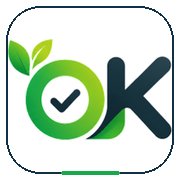
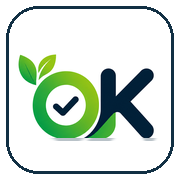
App-incrementale-v06

diff --git a/public/app.html b/public/app.html
@@ -3,114 +3,129 @@
 <head>
   <meta charset="UTF-8">
   <meta name="viewport" content="width=device-width,initial-scale=1,viewport-fit=cover">
-  <meta name="theme-color" content="#ffffff">
+  <meta name="theme-color" content="#f4f7f5">
   <meta name="apple-mobile-web-app-capable" content="yes">
   <meta name="apple-mobile-web-app-status-bar-style" content="default">
   <meta name="apple-mobile-web-app-title" content="OffertaLogica">
   <title>OffertaLogica</title>
   <link rel="manifest" href="/manifest.webmanifest">
   <link rel="icon" href="/assets/logo-offertalogica-icon.png">
-  <link rel="apple-touch-icon" sizes="180x180" href="/assets/app-icon-180.png">
+  <link rel="apple-touch-icon" sizes="180x180" href="/assets/app-icon-180.png?v=6">
   <style>
     :root{
-      --bg:#f5f7fa;--surface:#fff;--text:#123044;--muted:#5d7280;
-      --green:#19a94b;--green-dark:#068d3e;--lime:#86d51f;
-      --navy:#123044;--border:#dce5ea;--soft:#eef8f1;
-      --shadow:0 12px 32px rgba(18,48,68,.08);--radius:22px;
+      --bg:#f4f7f5;--surface:#ffffff;--surface-2:#eef5f0;--text:#123044;--muted:#647985;
+      --green:#18a84b;--green-dark:#087f3a;--lime:#84d126;--navy:#123044;--line:#dbe6df;
+      --shadow:0 18px 44px rgba(18,48,68,.10);--soft-shadow:0 8px 24px rgba(18,48,68,.07);
+      --r-xl:30px;--r-lg:24px;--r-md:18px;
     }
     *{box-sizing:border-box}
-    html{background:var(--bg);-webkit-text-size-adjust:100%}
+    html{background:var(--bg);-webkit-text-size-adjust:100%;scroll-behavior:smooth}
     body{margin:0;min-height:100dvh;background:var(--bg);color:var(--text);font-family:-apple-system,BlinkMacSystemFont,"Segoe UI",Inter,Arial,sans-serif;-webkit-font-smoothing:antialiased}
-    a,button{font:inherit;-webkit-tap-highlight-color:transparent}
+    button,a{font:inherit;-webkit-tap-highlight-color:transparent}
     button{color:inherit}
-    .app{width:min(100%,520px);min-height:100dvh;margin:auto;padding:env(safe-area-inset-top) 16px calc(92px + env(safe-area-inset-bottom))}
-    .topbar{height:72px;display:flex;align-items:center;justify-content:space-between}
-    .brand{display:flex;align-items:center;text-decoration:none}
-    .brand img{display:block;width:184px;max-width:58vw;height:auto}
-    .icon-button{width:44px;height:44px;border:1px solid var(--border);border-radius:15px;background:var(--surface);display:grid;place-items:center;box-shadow:0 5px 16px rgba(18,48,68,.06)}
+    .shell{width:min(100%,540px);min-height:100dvh;margin:auto;padding:env(safe-area-inset-top) 16px calc(108px + env(safe-area-inset-bottom))}
+    .topbar{height:74px;display:flex;align-items:center;justify-content:space-between;gap:14px}
+    .brand img{display:block;width:177px;max-width:56vw;height:auto}
+    .top-actions{display:flex;align-items:center;gap:9px}
+    .round-btn{width:44px;height:44px;border:1px solid rgba(18,48,68,.09);border-radius:15px;background:rgba(255,255,255,.82);display:grid;place-items:center;box-shadow:var(--soft-shadow);backdrop-filter:blur(16px);-webkit-backdrop-filter:blur(16px);text-decoration:none;color:var(--navy)}
     .icon{width:23px;height:23px;stroke:currentColor;stroke-width:1.9;fill:none;stroke-linecap:round;stroke-linejoin:round}
-    .hero{position:relative;isolation:isolate;overflow:hidden;padding:25px 21px 21px;border-radius:26px;background:linear-gradient(135deg,#078d3f 0%,#19a94b 58%,#78cc20 100%);color:#fff;box-shadow:0 18px 38px rgba(25,169,75,.22)}
-    .hero:before,.hero:after{content:"";position:absolute;z-index:-1;border-radius:999px;background:rgba(255,255,255,.10)}
-    .hero:before{width:210px;height:210px;right:-92px;top:-116px}
-    .hero:after{width:145px;height:145px;left:-80px;bottom:-105px}
-    .eyebrow{display:flex;align-items:center;gap:7px;font-size:13px;font-weight:800;letter-spacing:.01em;opacity:.96}
-    .eyebrow-dot{width:8px;height:8px;border-radius:50%;background:#d9ff9a;box-shadow:0 0 0 5px rgba(217,255,154,.14)}
-    .hero h1{max-width:390px;margin:12px 0 9px;font-size:clamp(31px,9vw,40px);line-height:1.02;letter-spacing:-.045em}
-    .hero p{max-width:370px;margin:0 0 20px;font-size:15px;line-height:1.45;color:rgba(255,255,255,.92)}
-    .primary{min-height:54px;width:100%;border:0;border-radius:16px;background:#fff;color:var(--navy);display:flex;align-items:center;justify-content:center;gap:9px;text-decoration:none;font-weight:900;box-shadow:0 8px 22px rgba(0,0,0,.13);transition:transform .16s ease,box-shadow .16s ease}
-    .primary:active{transform:scale(.985);box-shadow:0 5px 14px rgba(0,0,0,.11)}
-    .install{display:none;width:100%;min-height:48px;margin:13px 0 0;border:1px solid #93dbab;border-radius:15px;background:#f0fbf3;color:#087c39;font-weight:850}.install.show{display:block}
-    .section-heading{display:flex;justify-content:space-between;align-items:end;margin:24px 2px 12px}
-    .section-heading h2{margin:0;font-size:19px;letter-spacing:-.02em}.section-heading span{font-size:12px;color:var(--muted)}
-    .quick-grid{display:grid;grid-template-columns:1fr 1fr;gap:12px}
-    .quick-card{position:relative;min-height:154px;padding:17px 15px;border:1px solid var(--border);border-radius:var(--radius);background:var(--surface);color:var(--text);text-decoration:none;box-shadow:var(--shadow);transition:transform .16s ease,border-color .16s ease}
-    .quick-card:active{transform:scale(.985);border-color:#b7d9c1}
-    .quick-icon{width:49px;height:49px;margin-bottom:17px;border-radius:16px;background:var(--soft);color:var(--green-dark);display:grid;place-items:center}
-    .quick-card strong{display:block;margin-bottom:5px;font-size:16px;letter-spacing:-.015em}.quick-card small{display:block;color:var(--muted);font-size:13px;line-height:1.38}
-    .wide-card{margin-top:12px;padding:18px;border:1px solid var(--border);border-radius:var(--radius);background:var(--surface);box-shadow:var(--shadow)}
-    .wide-head{display:flex;align-items:center;justify-content:space-between;gap:12px}.wide-head strong{font-size:16px}
-    .badge{padding:6px 9px;border-radius:99px;background:#e9f9ee;color:#087c39;font-size:11px;font-weight:900}
-    .wide-card h3{margin:13px 0 5px;font-size:20px;letter-spacing:-.025em}.wide-card p{margin:0;color:var(--muted);font-size:13px;line-height:1.45}
-    .wide-link{display:flex;align-items:center;justify-content:space-between;margin-top:16px;padding-top:15px;border-top:1px solid #e7edf0;color:var(--green-dark);font-weight:900;text-decoration:none}
-    .nav{position:fixed;z-index:30;left:50%;bottom:0;transform:translateX(-50%);width:min(520px,100%);display:grid;grid-template-columns:repeat(4,1fr);padding:8px 8px calc(8px + env(safe-area-inset-bottom));border-top:1px solid var(--border);background:rgba(255,255,255,.94);backdrop-filter:blur(18px);-webkit-backdrop-filter:blur(18px)}
-    .nav a{min-height:54px;display:flex;flex-direction:column;align-items:center;justify-content:center;gap:3px;color:#607482;text-decoration:none;font-size:10px;font-weight:800;border-radius:14px}.nav a.active{color:var(--green-dark);background:#eff9f2}.nav .icon{width:22px;height:22px}
-    .splash{position:fixed;z-index:100;inset:0;display:grid;place-items:center;padding:24px;background:#fff;transition:opacity .28s ease,visibility .28s ease}
-    .splash.hidden{opacity:0;visibility:hidden;pointer-events:none}.splash-inner{text-align:center}.splash img{display:block;width:min(250px,68vw);height:auto;margin:auto;animation:logo-in .55s cubic-bezier(.2,.8,.2,1) both}.splash p{margin:16px 0 0;color:var(--muted);font-size:13px;font-weight:700;letter-spacing:.015em}
-    .update{position:fixed;z-index:60;left:50%;bottom:calc(82px + env(safe-area-inset-bottom));transform:translate(-50%,18px);width:min(calc(100% - 32px),488px);padding:12px 13px;border-radius:16px;background:var(--navy);color:#fff;display:flex;align-items:center;justify-content:space-between;gap:12px;box-shadow:0 18px 40px rgba(18,48,68,.25);opacity:0;visibility:hidden;transition:.2s ease}.update.show{opacity:1;visibility:visible;transform:translate(-50%,0)}.update span{font-size:13px;font-weight:750}.update button{border:0;border-radius:11px;background:#fff;color:var(--navy);padding:8px 10px;font-size:12px;font-weight:900}
-    @keyframes logo-in{from{opacity:0;transform:scale(.88)}to{opacity:1;transform:scale(1)}}
-    @media(min-width:700px){body{padding:24px}.app{min-height:calc(100dvh - 48px);border-radius:30px;background:#f8fafb;box-shadow:0 25px 80px rgba(18,48,68,.15)}.nav{bottom:24px;border:1px solid var(--border);border-radius:0 0 30px 30px}}
+    .view{display:none;animation:view-in .28s cubic-bezier(.2,.75,.25,1) both}.view.active{display:block}
+    .welcome{margin:5px 2px 15px}.welcome small{display:block;margin-bottom:5px;color:var(--green-dark);font-size:12px;font-weight:850;letter-spacing:.04em;text-transform:uppercase}.welcome h1{margin:0;font-size:clamp(31px,9vw,42px);line-height:1.02;letter-spacing:-.052em}.welcome p{margin:10px 0 0;max-width:410px;color:var(--muted);font-size:15px;line-height:1.48}
+    .hero{position:relative;isolation:isolate;overflow:hidden;padding:24px;border-radius:var(--r-xl);background:linear-gradient(145deg,#087f3a 0%,#18a84b 56%,#73c928 100%);color:#fff;box-shadow:0 22px 52px rgba(24,168,75,.24)}
+    .hero:before,.hero:after{content:"";position:absolute;z-index:-1;border-radius:999px;background:rgba(255,255,255,.11)}
+    .hero:before{width:230px;height:230px;right:-100px;top:-120px}.hero:after{width:170px;height:170px;left:-90px;bottom:-125px}
+    .status{display:inline-flex;align-items:center;gap:8px;padding:7px 10px;border-radius:999px;background:rgba(255,255,255,.14);font-size:12px;font-weight:850}.status-dot{width:8px;height:8px;border-radius:50%;background:#dfff9f;box-shadow:0 0 0 5px rgba(223,255,159,.14)}
+    .hero h2{margin:18px 0 8px;font-size:clamp(28px,8vw,38px);line-height:1.04;letter-spacing:-.045em}.hero p{margin:0 0 21px;max-width:390px;color:rgba(255,255,255,.91);font-size:14px;line-height:1.48}
+    .cta{min-height:56px;width:100%;border:0;border-radius:18px;background:#fff;color:var(--navy);display:flex;align-items:center;justify-content:center;gap:10px;text-decoration:none;font-weight:900;box-shadow:0 10px 24px rgba(0,0,0,.13);transition:transform .16s ease}.cta:active{transform:scale(.982)}
+    .install{display:none;width:100%;min-height:50px;margin:13px 0 0;border:1px solid #a8dcb8;border-radius:17px;background:#eefaf1;color:#087c39;font-weight:850}.install.show{display:block}
+    .section-title{display:flex;align-items:end;justify-content:space-between;margin:25px 2px 12px}.section-title h2{margin:0;font-size:20px;letter-spacing:-.025em}.section-title span{color:var(--muted);font-size:12px}
+    .action-grid{display:grid;grid-template-columns:1fr 1fr;gap:12px}
+    .action{min-height:166px;padding:17px;border:1px solid var(--line);border-radius:var(--r-lg);background:var(--surface);box-shadow:var(--soft-shadow);text-decoration:none;color:var(--text);transition:transform .16s ease,border-color .16s ease}.action:active{transform:scale(.982);border-color:#b8d9c1}
+    .action-icon{width:52px;height:52px;margin-bottom:20px;border-radius:18px;background:var(--surface-2);color:var(--green-dark);display:grid;place-items:center}.action strong{display:block;margin-bottom:5px;font-size:16px;letter-spacing:-.02em}.action small{display:block;color:var(--muted);font-size:13px;line-height:1.4}
+    .insight{margin-top:12px;padding:19px;border:1px solid var(--line);border-radius:var(--r-lg);background:linear-gradient(180deg,#fff,#fbfdfb);box-shadow:var(--soft-shadow)}
+    .insight-head{display:flex;align-items:center;justify-content:space-between;gap:12px}.insight-head strong{font-size:16px}.pill{padding:6px 9px;border-radius:999px;background:#e8f8ed;color:#087c39;font-size:11px;font-weight:900}.insight h3{margin:15px 0 6px;font-size:22px;letter-spacing:-.032em}.insight p{margin:0;color:var(--muted);font-size:13px;line-height:1.48}.text-link{display:flex;align-items:center;justify-content:space-between;margin-top:17px;padding-top:15px;border-top:1px solid #e7eeea;color:var(--green-dark);font-weight:900;text-decoration:none}
+    .page-head{padding:7px 2px 16px}.page-head .kicker{color:var(--green-dark);font-size:12px;font-weight:850;text-transform:uppercase;letter-spacing:.04em}.page-head h1{margin:6px 0 7px;font-size:34px;line-height:1.05;letter-spacing:-.045em}.page-head p{margin:0;color:var(--muted);font-size:14px;line-height:1.5}
+    .feature-card{padding:22px;border:1px solid var(--line);border-radius:var(--r-xl);background:var(--surface);box-shadow:var(--shadow)}
+    .feature-symbol{width:68px;height:68px;border-radius:23px;background:linear-gradient(145deg,#e6f7eb,#f5fbf6);color:var(--green-dark);display:grid;place-items:center}.feature-symbol .icon{width:31px;height:31px}
+    .feature-card h2{margin:21px 0 8px;font-size:25px;letter-spacing:-.035em}.feature-card p{margin:0 0 20px;color:var(--muted);font-size:14px;line-height:1.52}
+    .secondary{min-height:54px;width:100%;border:1px solid #b8d7c1;border-radius:17px;background:#f5fbf7;color:var(--green-dark);display:flex;align-items:center;justify-content:center;gap:9px;text-decoration:none;font-weight:900}.secondary+.secondary{margin-top:10px}
+    .list{display:grid;gap:11px;margin-top:14px}.list-item{display:flex;align-items:center;gap:13px;padding:15px;border:1px solid var(--line);border-radius:20px;background:var(--surface);text-decoration:none;color:var(--text);box-shadow:var(--soft-shadow)}.list-icon{width:44px;height:44px;flex:0 0 auto;border-radius:15px;background:var(--surface-2);color:var(--green-dark);display:grid;place-items:center}.list-copy{min-width:0;flex:1}.list-copy strong{display:block;font-size:15px}.list-copy small{display:block;margin-top:3px;color:var(--muted);font-size:12px;line-height:1.35}.chev{color:#7b8e98}
+    .nav-wrap{position:fixed;z-index:40;left:50%;bottom:0;transform:translateX(-50%);width:min(540px,100%);padding:8px 12px calc(8px + env(safe-area-inset-bottom));pointer-events:none}
+    .nav{display:grid;grid-template-columns:repeat(4,1fr);padding:7px;border:1px solid rgba(18,48,68,.10);border-radius:25px;background:rgba(255,255,255,.82);box-shadow:0 16px 42px rgba(18,48,68,.16);backdrop-filter:blur(24px) saturate(160%);-webkit-backdrop-filter:blur(24px) saturate(160%);pointer-events:auto}
+    .nav button{min-height:59px;border:0;border-radius:18px;background:transparent;color:#6a7e89;display:flex;flex-direction:column;align-items:center;justify-content:center;gap:3px;font-size:10px;font-weight:850}.nav button.active{background:#ebf7ef;color:var(--green-dark)}.nav .icon{width:22px;height:22px}
+    .splash{position:fixed;z-index:100;inset:0;display:grid;place-items:center;padding:24px;background:#fff;transition:opacity .25s ease,visibility .25s ease}.splash.hidden{opacity:0;visibility:hidden;pointer-events:none}.splash-inner{text-align:center}.splash-mark{width:min(164px,42vw);aspect-ratio:1;margin:auto;border:2px solid #183b59;border-radius:34px;background:#fff;display:grid;place-items:center;box-shadow:0 18px 50px rgba(18,48,68,.12);animation:mark-in .55s cubic-bezier(.2,.8,.2,1) both}.splash-mark img{display:block;width:86%;height:auto}.splash p{margin:19px 0 0;color:var(--muted);font-size:13px;font-weight:750}
+    .app-browser{position:fixed;z-index:90;inset:0;background:#fff;display:none;flex-direction:column;padding-top:env(safe-area-inset-top)}
+    .app-browser.open{display:flex}
+    .app-browser-bar{height:58px;flex:0 0 auto;display:flex;align-items:center;gap:10px;padding:7px 12px;border-bottom:1px solid var(--line);background:rgba(255,255,255,.94);backdrop-filter:blur(18px);-webkit-backdrop-filter:blur(18px)}
+    .app-browser-back{width:44px;height:44px;flex:0 0 auto;border:0;border-radius:15px;background:var(--surface-2);color:var(--navy);display:grid;place-items:center}
+    .app-browser-title{min-width:0;flex:1}.app-browser-title strong{display:block;font-size:14px}.app-browser-title small{display:block;margin-top:2px;color:var(--muted);font-size:11px;white-space:nowrap;overflow:hidden;text-overflow:ellipsis}
+    .app-browser iframe{width:100%;min-height:0;flex:1;border:0;background:#fff}
+    body.app-browser-open{overflow:hidden}
+    .update{position:fixed;z-index:70;left:50%;bottom:calc(101px + env(safe-area-inset-bottom));transform:translate(-50%,18px);width:min(calc(100% - 32px),508px);padding:12px 13px;border-radius:17px;background:var(--navy);color:#fff;display:flex;align-items:center;justify-content:space-between;gap:12px;box-shadow:0 18px 40px rgba(18,48,68,.25);opacity:0;visibility:hidden;transition:.2s ease}.update.show{opacity:1;visibility:visible;transform:translate(-50%,0)}.update span{font-size:13px;font-weight:750}.update button{border:0;border-radius:11px;background:#fff;color:var(--navy);padding:8px 10px;font-size:12px;font-weight:900}
+    @keyframes mark-in{from{opacity:0;transform:scale(.86) rotate(-2deg)}to{opacity:1;transform:scale(1) rotate(0)}}@keyframes view-in{from{opacity:0;transform:translateY(8px)}to{opacity:1;transform:none}}
+    @media(min-width:700px){body{padding:24px}.shell{min-height:calc(100dvh - 48px);border-radius:34px;background:#f8faf8;box-shadow:0 28px 90px rgba(18,48,68,.14)}.nav-wrap{bottom:24px}.nav{border-radius:26px}}
     @media(prefers-reduced-motion:reduce){*,*:before,*:after{animation-duration:.01ms!important;transition-duration:.01ms!important;scroll-behavior:auto!important}}
   </style>
 </head>
 <body>
-  <div id="splash" class="splash" aria-hidden="true"><div class="splash-inner"><img src="/assets/logo-offertalogica-header.png" alt=""><p>Confronta · Scegli · Risparmia</p></div></div>
+  <div id="splash" class="splash" aria-hidden="true"><div class="splash-inner"><div class="splash-mark"><img src="/assets/logo-offertalogica-icon.png" alt=""></div><p>Confronta · Scegli · Risparmia</p></div></div>
 
-  <main class="app">
+  <main class="shell">
     <header class="topbar">
-      <a class="brand" href="/app.html" aria-label="OffertaLogica"><img src="/assets/logo-offertalogica-header.png" alt="OffertaLogica"></a>
-      <a class="icon-button" href="/come-funziona.html" aria-label="Aiuto">
-        <svg class="icon" viewBox="0 0 24 24" aria-hidden="true"><circle cx="12" cy="12" r="9"/><path d="M9.8 9a2.35 2.35 0 1 1 3.6 2c-.9.6-1.4 1.05-1.4 2.2"/><path d="M12 17h.01"/></svg>
-      </a>
+      <a class="brand" href="#home" data-tab-link="home" aria-label="OffertaLogica"><img src="/assets/logo-offertalogica-header.png" alt="OffertaLogica"></a>
+      <div class="top-actions"><a class="round-btn" href="/come-funziona.html" aria-label="Aiuto"><svg class="icon" viewBox="0 0 24 24" aria-hidden="true"><circle cx="12" cy="12" r="9"/><path d="M9.8 9a2.35 2.35 0 1 1 3.6 2c-.9.6-1.4 1.05-1.4 2.2"/><path d="M12 17h.01"/></svg></a></div>
     </header>
 
-    <section class="hero">
-      <div class="eyebrow"><span class="eyebrow-dot"></span><span>Offerte luce e gas aggiornate</span></div>
-      <h1>Quanto puoi risparmiare oggi?</h1>
-      <p>Confronta le offerte disponibili oppure carica una bolletta per un risultato basato sui tuoi consumi.</p>
-      <a class="primary" href="/?entry=app#main-content">
-        <span>SCOPRI IL RISPARMIO</span>
-        <svg class="icon" viewBox="0 0 24 24" aria-hidden="true"><path d="M5 12h14"/><path d="m14 7 5 5-5 5"/></svg>
-      </a>
+    <section id="view-home" class="view active" data-view="home">
+      <div class="welcome"><small id="greeting">Buongiorno</small><h1>La tua energia, più semplice.</h1><p>Confronta le offerte oppure analizza una bolletta partendo da un percorso chiaro.</p></div>
+      <section class="hero">
+        <div class="status"><span class="status-dot"></span><span>Catalogo OffertaLogica aggiornato</span></div>
+        <h2>Scopri quanto puoi risparmiare</h2>
+        <p>Inizia dai consumi medi oppure inserisci i tuoi dati per ottenere un confronto più preciso.</p>
+        <a class="cta" href="/?entry=app#main-content" data-app-url="/?entry=app#main-content" data-app-title="Confronta le offerte"><span>INIZIA IL CONFRONTO</span><svg class="icon" viewBox="0 0 24 24" aria-hidden="true"><path d="M5 12h14"/><path d="m14 7 5 5-5 5"/></svg></a>
+      </section>
+      <button id="installApp" class="install" type="button">Installa OffertaLogica sul telefono</button>
+      <div class="section-title"><h2>Azioni rapide</h2><span>Scegli come iniziare</span></div>
+      <section class="action-grid" aria-label="Azioni principali">
+        <button class="action" type="button" data-open-tab="bill"><div class="action-icon"><svg class="icon" viewBox="0 0 24 24" aria-hidden="true"><path d="M14 2H7a2 2 0 0 0-2 2v16a2 2 0 0 0 2 2h10a2 2 0 0 0 2-2V7z"/><path d="M14 2v5h5"/><path d="M9 13h6M9 17h6"/></svg></div><strong>Analizza bolletta</strong><small>Carica il PDF e lascia che l’IA compili il confronto.</small></button>
+        <button class="action" type="button" data-open-tab="offers"><div class="action-icon"><svg class="icon" viewBox="0 0 24 24" aria-hidden="true"><circle cx="11" cy="11" r="7"/><path d="m20 20-4-4"/><path d="M11 8v6M8 11h6"/></svg></div><strong>Esplora offerte</strong><small>Consulta luce, gas e dual disponibili oggi.</small></button>
+      </section>
+      <section class="insight"><div class="insight-head"><strong>Confronto trasparente</strong><span class="pill">Dati reali</span></div><h3>Niente risparmi inventati</h3><p>L’app usa il catalogo e le funzioni reali di OffertaLogica. Le aree personali saranno attivate solo quando collegate a dati effettivi.</p><a class="text-link" href="/come-funziona.html" data-app-url="/come-funziona.html" data-app-title="Come funziona"><span>Come funziona</span><svg class="icon" viewBox="0 0 24 24" aria-hidden="true"><path d="m9 18 6-6-6-6"/></svg></a></section>
     </section>
 
-    <button id="installApp" class="install" type="button">Installa OffertaLogica sul telefono</button>
-
-    <div class="section-heading"><h2>Inizia da qui</h2><span>Due percorsi rapidi</span></div>
-    <section class="quick-grid" aria-label="Azioni principali">
-      <a class="quick-card" href="/#pdf-upload-panel">
-        <div class="quick-icon"><svg class="icon" viewBox="0 0 24 24" aria-hidden="true"><path d="M14 2H7a2 2 0 0 0-2 2v16a2 2 0 0 0 2 2h10a2 2 0 0 0 2-2V7z"/><path d="M14 2v5h5"/><path d="M9 13h6M9 17h6"/></svg></div>
-        <strong>Carica bolletta</strong><small>Analisi IA e compilazione automatica del confronto.</small>
-      </a>
-      <a class="quick-card" href="/?entry=app#main-content">
-        <div class="quick-icon"><svg class="icon" viewBox="0 0 24 24" aria-hidden="true"><circle cx="11" cy="11" r="7"/><path d="m20 20-4-4"/><path d="M11 8v6M8 11h6"/></svg></div>
-        <strong>Nuovo confronto</strong><small>Parti dai consumi oppure usa i valori medi.</small>
-      </a>
+    <section id="view-bill" class="view" data-view="bill">
+      <div class="page-head"><div class="kicker">Scanner IA</div><h1>Parti dalla bolletta</h1><p>Carica un PDF già presente sul telefono. La fotocamera diretta verrà attivata solo dopo il test tecnico dedicato.</p></div>
+      <section class="feature-card"><div class="feature-symbol"><svg class="icon" viewBox="0 0 24 24" aria-hidden="true"><path d="M14 2H7a2 2 0 0 0-2 2v16a2 2 0 0 0 2 2h10a2 2 0 0 0 2-2V7z"/><path d="M14 2v5h5"/><path d="M9 13h6M9 17h6"/></svg></div><h2>Analisi automatica</h2><p>Il lettore esistente cercherà consumo annuo, prezzo materia e quota fissa, quindi compilerà il modulo di confronto.</p><a class="cta" href="/#pdf-upload-panel" data-app-url="/#pdf-upload-panel" data-app-title="Analizza la bolletta">SCEGLI IL PDF</a><a class="secondary" href="/?entry=app#main-content" data-app-url="/?entry=app#main-content" data-app-title="Inserisci i dati">Inserisci i dati manualmente</a></section>
+      <div class="section-title"><h2>Cosa succede dopo</h2><span>Flusso attuale</span></div>
+      <div class="list"><div class="list-item"><div class="list-icon">1</div><div class="list-copy"><strong>Caricamento</strong><small>Selezioni il documento dal telefono.</small></div></div><div class="list-item"><div class="list-icon">2</div><div class="list-copy"><strong>Lettura IA</strong><small>Il sistema estrae i dati essenziali.</small></div></div><div class="list-item"><div class="list-icon">3</div><div class="list-copy"><strong>Confronto</strong><small>Verifichi i dati e confronti le offerte.</small></div></div></div>
     </section>
 
-    <section class="wide-card">
-      <div class="wide-head"><strong>Offerte disponibili</strong><span class="badge">Aggiornate</span></div>
-      <h3>Luce, gas e dual</h3>
-      <p>Consulta il catalogo reale di OffertaLogica senza dati dimostrativi o risparmi inventati.</p>
-      <a class="wide-link" href="/offerte-luce-gas-aggiornate.html"><span>Vedi le offerte</span><svg class="icon" viewBox="0 0 24 24" aria-hidden="true"><path d="m9 18 6-6-6-6"/></svg></a>
+    <section id="view-offers" class="view" data-view="offers">
+      <div class="page-head"><div class="kicker">Confronta</div><h1>Trova il percorso giusto</h1><p>Puoi partire dai consumi oppure consultare direttamente il catalogo aggiornato.</p></div>
+      <section class="feature-card"><div class="feature-symbol"><svg class="icon" viewBox="0 0 24 24" aria-hidden="true"><path d="M4 19V9M10 19V5M16 19v-8M22 19H2"/></svg></div><h2>Confronto personalizzato</h2><p>Inserisci luce, gas o dual. Se non conosci i consumi, usa il percorso rapido già disponibile nel comparatore.</p><a class="cta" href="/?entry=app#main-content" data-app-url="/?entry=app#main-content" data-app-title="Confronta le offerte">NUOVO CONFRONTO</a><a class="secondary" href="/offerte-luce-gas-aggiornate.html" data-app-url="/offerte-luce-gas-aggiornate.html" data-app-title="Offerte aggiornate">Vedi tutte le offerte</a></section>
+      <div class="list"><a class="list-item" href="/offerte-luce-gas-aggiornate.html" data-app-url="/offerte-luce-gas-aggiornate.html" data-app-title="Offerte aggiornate"><div class="list-icon"><svg class="icon" viewBox="0 0 24 24" aria-hidden="true"><path d="M13 2 4 14h7l-1 8 9-12h-7z"/></svg></div><div class="list-copy"><strong>Offerte luce</strong><small>Consulta il catalogo energia elettrica.</small></div><svg class="icon chev" viewBox="0 0 24 24"><path d="m9 18 6-6-6-6"/></svg></a><a class="list-item" href="/offerte-luce-gas-aggiornate.html" data-app-url="/offerte-luce-gas-aggiornate.html" data-app-title="Offerte aggiornate"><div class="list-icon"><svg class="icon" viewBox="0 0 24 24" aria-hidden="true"><path d="M12 22c4 0 7-3 7-7 0-5-4-7-5-12-3 2-8 6-8 12 0 4 2 7 6 7z"/><path d="M10 18c0-2 1-3 3-5 1 2 2 3 2 5a2.5 2.5 0 0 1-5 0z"/></svg></div><div class="list-copy"><strong>Offerte gas</strong><small>Consulta il catalogo gas naturale.</small></div><svg class="icon chev" viewBox="0 0 24 24"><path d="m9 18 6-6-6-6"/></svg></a></div>
+    </section>
+
+    <section id="view-more" class="view" data-view="more">
+      <div class="page-head"><div class="kicker">OffertaLogica</div><h1>Informazioni e assistenza</h1><p>Accesso rapido alle pagine reali già presenti nel progetto.</p></div>
+      <div class="list"><a class="list-item" href="/come-funziona.html" data-app-url="/come-funziona.html" data-app-title="Come funziona"><div class="list-icon"><svg class="icon" viewBox="0 0 24 24"><circle cx="12" cy="12" r="9"/><path d="M9.8 9a2.35 2.35 0 1 1 3.6 2c-.9.6-1.4 1.05-1.4 2.2"/><path d="M12 17h.01"/></svg></div><div class="list-copy"><strong>Come funziona</strong><small>Scopri il percorso di confronto.</small></div><svg class="icon chev" viewBox="0 0 24 24"><path d="m9 18 6-6-6-6"/></svg></a><a class="list-item" href="/termini-condizioni.html" data-app-url="/termini-condizioni.html" data-app-title="Termini e condizioni"><div class="list-icon"><svg class="icon" viewBox="0 0 24 24"><path d="M14 2H7a2 2 0 0 0-2 2v16a2 2 0 0 0 2 2h10a2 2 0 0 0 2-2V7z"/><path d="M14 2v5h5"/><path d="M9 13h6M9 17h6"/></svg></div><div class="list-copy"><strong>Termini e condizioni</strong><small>Informazioni legali del servizio.</small></div><svg class="icon chev" viewBox="0 0 24 24"><path d="m9 18 6-6-6-6"/></svg></a><a class="list-item" href="/"><div class="list-icon"><svg class="icon" viewBox="0 0 24 24"><path d="M3 12h18M12 3a15 15 0 0 1 0 18M12 3a15 15 0 0 0 0 18"/></svg></div><div class="list-copy"><strong>Apri il sito completo</strong><small>Accedi a tutte le sezioni di OffertaLogica.</small></div><svg class="icon chev" viewBox="0 0 24 24"><path d="m9 18 6-6-6-6"/></svg></a></div>
     </section>
   </main>
 
-  <nav class="nav" aria-label="Navigazione app">
-    <a class="active" href="/app.html" aria-current="page"><svg class="icon" viewBox="0 0 24 24" aria-hidden="true"><path d="m3 11 9-8 9 8"/><path d="M5 10v10h14V10"/><path d="M9 20v-6h6v6"/></svg><span>Home</span></a>
-    <a href="/#pdf-upload-panel"><svg class="icon" viewBox="0 0 24 24" aria-hidden="true"><path d="M14 2H7a2 2 0 0 0-2 2v16a2 2 0 0 0 2 2h10a2 2 0 0 0 2-2V7z"/><path d="M14 2v5h5"/><path d="M9 13h6M9 17h6"/></svg><span>Bolletta</span></a>
-    <a href="/?entry=app#main-content"><svg class="icon" viewBox="0 0 24 24" aria-hidden="true"><circle cx="11" cy="11" r="7"/><path d="m20 20-4-4"/></svg><span>Confronta</span></a>
-    <a href="/come-funziona.html"><svg class="icon" viewBox="0 0 24 24" aria-hidden="true"><circle cx="12" cy="12" r="9"/><path d="M9.8 9a2.35 2.35 0 1 1 3.6 2c-.9.6-1.4 1.05-1.4 2.2"/><path d="M12 17h.01"/></svg><span>Aiuto</span></a>
-  </nav>
+  <section id="appBrowser" class="app-browser" aria-hidden="true">
+    <div class="app-browser-bar">
+      <button id="appBrowserBack" class="app-browser-back" type="button" aria-label="Torna all’app"><svg class="icon" viewBox="0 0 24 24" aria-hidden="true"><path d="m15 18-6-6 6-6"/></svg></button>
+      <div class="app-browser-title"><strong id="appBrowserTitle">OffertaLogica</strong><small>Area operativa</small></div>
+    </div>
+    <iframe id="appBrowserFrame" title="OffertaLogica" src="about:blank"></iframe>
+  </section>
+
+  <div class="nav-wrap"><nav class="nav" aria-label="Navigazione app">
+    <button class="active" type="button" data-tab="home" aria-current="page"><svg class="icon" viewBox="0 0 24 24"><path d="m3 11 9-8 9 8"/><path d="M5 10v10h14V10"/><path d="M9 20v-6h6v6"/></svg><span>Home</span></button>
+    <button type="button" data-tab="bill"><svg class="icon" viewBox="0 0 24 24"><path d="M14 2H7a2 2 0 0 0-2 2v16a2 2 0 0 0 2 2h10a2 2 0 0 0 2-2V7z"/><path d="M14 2v5h5"/><path d="M9 13h6M9 17h6"/></svg><span>Bolletta</span></button>
+    <button type="button" data-tab="offers"><svg class="icon" viewBox="0 0 24 24"><circle cx="11" cy="11" r="7"/><path d="m20 20-4-4"/></svg><span>Confronta</span></button>
+    <button type="button" data-tab="more"><svg class="icon" viewBox="0 0 24 24"><circle cx="5" cy="12" r="1" fill="currentColor" stroke="none"/><circle cx="12" cy="12" r="1" fill="currentColor" stroke="none"/><circle cx="19" cy="12" r="1" fill="currentColor" stroke="none"/></svg><span>Altro</span></button>
+  </nav></div>
 
   <div id="updateNotice" class="update" role="status" aria-live="polite"><span>È disponibile una nuova versione.</span><button id="applyUpdate" type="button">AGGIORNA</button></div>
 
@@ -118,32 +133,47 @@
     (()=>{
       const splash=document.getElementById('splash');
       const hideSplash=()=>splash.classList.add('hidden');
-      addEventListener('load',()=>setTimeout(hideSplash,650),{once:true});
-      setTimeout(hideSplash,1600);
+      addEventListener('load',()=>setTimeout(hideSplash,560),{once:true});setTimeout(hideSplash,1500);
 
-      let deferredPrompt;
-      const install=document.getElementById('installApp');
+      const hour=new Date().getHours();
+      document.getElementById('greeting').textContent=hour<12?'Buongiorno':hour<18?'Buon pomeriggio':'Buonasera';
+
+      const views=[...document.querySelectorAll('[data-view]')];
+      const tabs=[...document.querySelectorAll('[data-tab]')];
+      const openTab=name=>{
+        const target=views.find(view=>view.dataset.view===name);if(!target)return;
+        views.forEach(view=>view.classList.toggle('active',view===target));
+        tabs.forEach(tab=>{const active=tab.dataset.tab===name;tab.classList.toggle('active',active);active?tab.setAttribute('aria-current','page'):tab.removeAttribute('aria-current')});
+        history.replaceState(null,'','#'+name);scrollTo({top:0,behavior:'smooth'});
+      };
+      tabs.forEach(tab=>tab.addEventListener('click',()=>openTab(tab.dataset.tab)));
+      document.querySelectorAll('[data-open-tab]').forEach(button=>button.addEventListener('click',()=>openTab(button.dataset.openTab)));
+      document.querySelectorAll('[data-tab-link]').forEach(link=>link.addEventListener('click',event=>{event.preventDefault();openTab(link.dataset.tabLink)}));
+      const initial=location.hash.slice(1);if(['home','bill','offers','more'].includes(initial))openTab(initial);
+
+      const appBrowser=document.getElementById('appBrowser');
+      const appBrowserFrame=document.getElementById('appBrowserFrame');
+      const appBrowserTitle=document.getElementById('appBrowserTitle');
+      const closeAppBrowser=()=>{
+        appBrowser.classList.remove('open');appBrowser.setAttribute('aria-hidden','true');document.body.classList.remove('app-browser-open');appBrowserFrame.src='about:blank';
+        if(history.state&&history.state.appBrowser)history.back();
+      };
+      const openAppBrowser=(url,title)=>{
+        appBrowserTitle.textContent=title||'OffertaLogica';appBrowserFrame.src=url;appBrowser.classList.add('open');appBrowser.setAttribute('aria-hidden','false');document.body.classList.add('app-browser-open');
+        history.pushState({appBrowser:true},'',location.href);
+      };
+      document.querySelectorAll('[data-app-url]').forEach(link=>link.addEventListener('click',event=>{event.preventDefault();openAppBrowser(link.dataset.appUrl,link.dataset.appTitle)}));
+      document.getElementById('appBrowserBack').addEventListener('click',closeAppBrowser);
+      addEventListener('popstate',()=>{if(appBrowser.classList.contains('open')){appBrowser.classList.remove('open');appBrowser.setAttribute('aria-hidden','true');document.body.classList.remove('app-browser-open');appBrowserFrame.src='about:blank'}});
+
+      let deferredPrompt;const install=document.getElementById('installApp');
       addEventListener('beforeinstallprompt',event=>{event.preventDefault();deferredPrompt=event;install.classList.add('show')});
       install.addEventListener('click',async()=>{if(!deferredPrompt)return;deferredPrompt.prompt();await deferredPrompt.userChoice;deferredPrompt=null;install.classList.remove('show')});
 
       if(!('serviceWorker' in navigator))return;
-      let refreshing=false;
-      const notice=document.getElementById('updateNotice');
-      const apply=document.getElementById('applyUpdate');
+      let refreshing=false;const notice=document.getElementById('updateNotice');const apply=document.getElementById('applyUpdate');
       navigator.serviceWorker.addEventListener('controllerchange',()=>{if(refreshing)return;refreshing=true;location.reload()});
-      addEventListener('load',async()=>{
-        try{
-          const registration=await navigator.serviceWorker.register('/sw.js');
-          const showUpdate=worker=>{notice.classList.add('show');apply.onclick=()=>worker.postMessage({type:'SKIP_WAITING'})};
-          if(registration.waiting)showUpdate(registration.waiting);
-          registration.addEventListener('updatefound',()=>{
-            const worker=registration.installing;
-            if(!worker)return;
-            worker.addEventListener('statechange',()=>{if(worker.state==='installed'&&navigator.serviceWorker.controller)showUpdate(worker)});
-          });
-          registration.update();
-        }catch(error){console.warn('Service worker non disponibile',error)}
-      },{once:true});
+      addEventListener('load',async()=>{try{const registration=await navigator.serviceWorker.register('/sw.js');const showUpdate=worker=>{notice.classList.add('show');apply.onclick=()=>worker.postMessage({type:'SKIP_WAITING'})};if(registration.waiting)showUpdate(registration.waiting);registration.addEventListener('updatefound',()=>{const worker=registration.installing;if(!worker)return;worker.addEventListener('statechange',()=>{if(worker.state==='installed'&&navigator.serviceWorker.controller)showUpdate(worker)})});registration.update()}catch(error){console.warn('Service worker non disponibile',error)}},{once:true});
     })();
   </script>
 </body>

diff --git a/public/index.html b/public/index.html
@@ -14,7 +14,7 @@
     <meta property="og:url" content="https://offertalogica.it/">
     <meta name="twitter:card" content="summary">
     <link rel="icon" type="image/png" href="/assets/logo-offertalogica-icon.png">
-    <link rel="apple-touch-icon" href="/assets/app-icon-192.png">
+    <link rel="apple-touch-icon" href="/assets/app-icon-192.png?v=6">
     <link rel="manifest" href="/manifest.webmanifest">
     <meta name="theme-color" content="#16a34a">
     <style>

diff --git a/public/sw.js b/public/sw.js
@@ -1,4 +1,4 @@
-const CACHE = "offertalogica-app-v2";
+const CACHE = "offertalogica-app-v6";
 const APP_SHELL = [
   "/app.html",
   "/manifest.webmanifest",
@@ -6,7 +6,8 @@ const APP_SHELL = [
   "/assets/logo-offertalogica-icon.png",
   "/assets/app-icon-180.png",
   "/assets/app-icon-192.png",
-  "/assets/app-icon-512.png"
+  "/assets/app-icon-512.png",
+  "/assets/app-icon-1024.png"
 ];
 
 self.addEventListener("install", event => {
